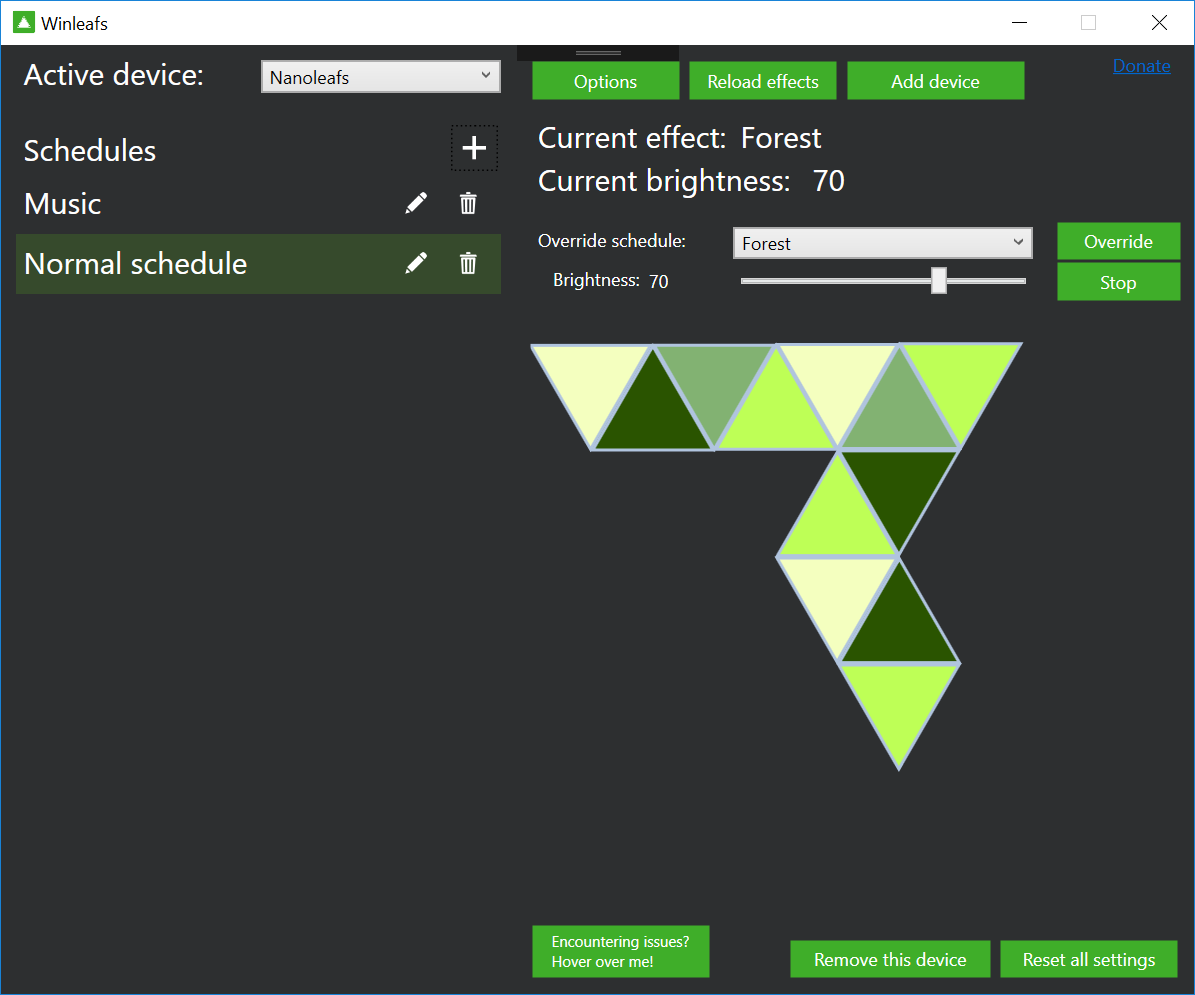
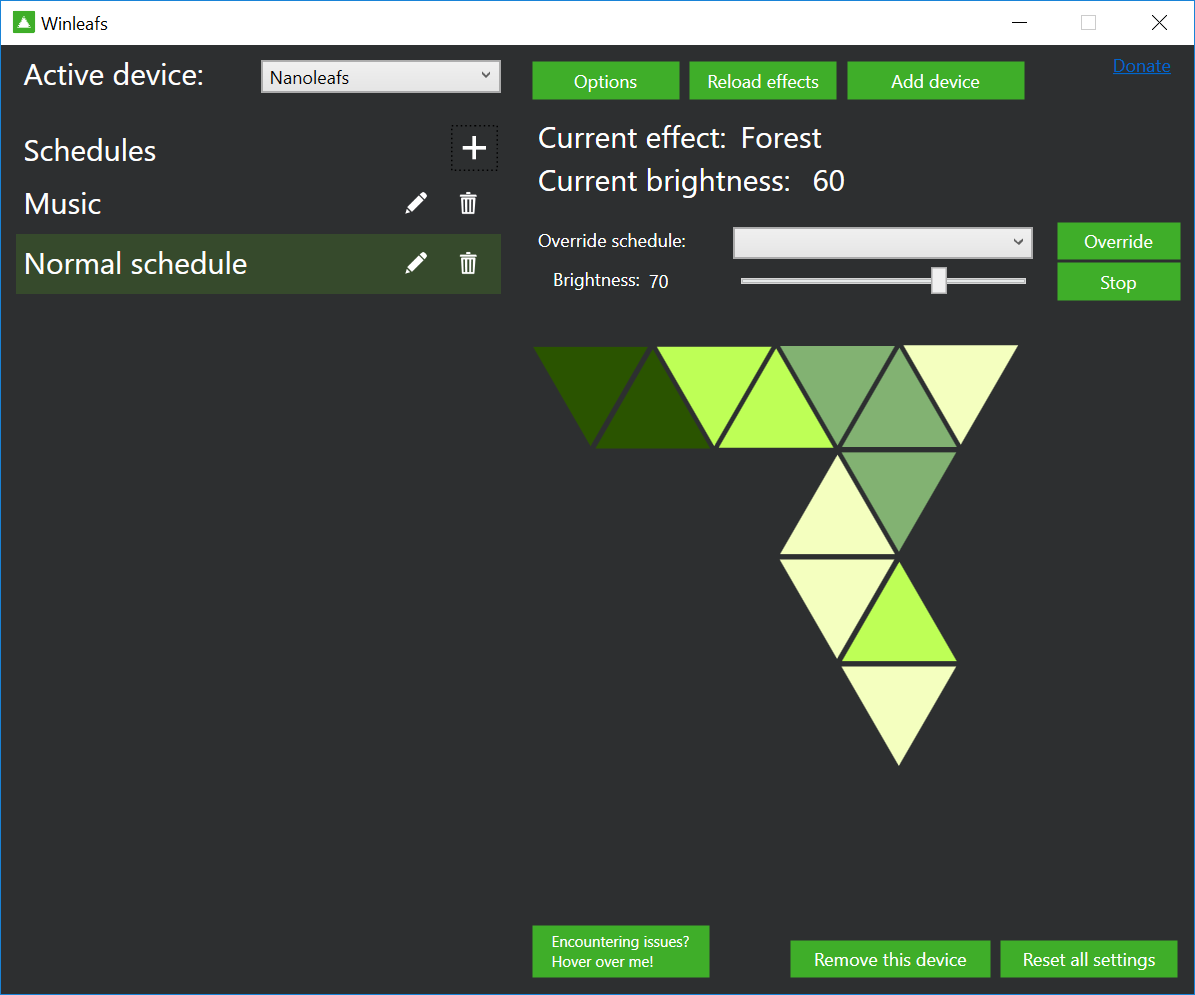
Updated screenshot and changed layout default panel color

Changed region(s): [[0.4335, 0.3427, 0.8669, 0.7789], [0.6812, 0.1558, 0.7121, 0.1869], [0.6192, 0.2181, 0.6502, 0.2492]]

diff --git a/Nanoleaf-wpf/Views/Layout/LayoutDisplayUserControl.xaml.cs b/Nanoleaf-wpf/Views/Layout/LayoutDisplayUserControl.xaml.cs
@@ -34,6 +34,7 @@ namespace Winleafs.Wpf.Views.Layout
         private RotateTransform _globalRotationTransform;
         private int _triangleSize;
         private double _conversionRate;
+        private bool _panelsClickable;
 
         //Timer to update the colors periodically to update with schedule
         private Timer _timer;
@@ -41,6 +42,8 @@ namespace Winleafs.Wpf.Views.Layout
         public LayoutDisplayUserControl()
         {
             InitializeComponent();
+
+            _panelsClickable = false;
 
             _timer = new Timer(30000); //Update the colors every 30 seconds
             _timer.Elapsed += OnTimedEvent;
@@ -53,6 +56,11 @@ namespace Winleafs.Wpf.Views.Layout
         {
             _width = width;
             _height = height;
+        }
+
+        public void EnableClick()
+        {
+            _panelsClickable = true;
         }
 
         public void DrawLayout()
@@ -239,7 +247,7 @@ namespace Winleafs.Wpf.Views.Layout
                     {
                         foreach (var triangle in _triangles.Values)
                         {
-                            triangle.Fill = null;
+                            triangle.Fill = Brushes.LightSlateGray;
                         }
                     }
                     else
@@ -266,11 +274,14 @@ namespace Winleafs.Wpf.Views.Layout
 
         private void TriangleClicked(object sender, MouseButtonEventArgs e)
         {
-            var triangle = (Polygon)sender;
-            triangle.Stroke = _selectedBorderColor;
-            triangle.StrokeThickness = 2;
+            if (_panelsClickable)
+            {
+                var triangle = (Polygon)sender;
+                triangle.Stroke = _selectedBorderColor;
+                triangle.StrokeThickness = 2;
 
-            var panelId = _triangles.FirstOrDefault(x => x.Value == sender).Key;
+                var panelId = _triangles.FirstOrDefault(x => x.Value == sender).Key;
+            }
         }
     }
 }

diff --git a/Nanoleaf-wpf/Views/Layout/PercentageProfileWindow.xaml.cs b/Nanoleaf-wpf/Views/Layout/PercentageProfileWindow.xaml.cs
@@ -25,6 +25,7 @@ namespace Winleafs.Wpf.Views.Layout
 
             LayoutDisplay.SetWithAndHeight((int)LayoutDisplay.Width, (int)LayoutDisplay.Height);
             LayoutDisplay.DrawLayout();
+            LayoutDisplay.EnableClick();
         }
     }
 }
